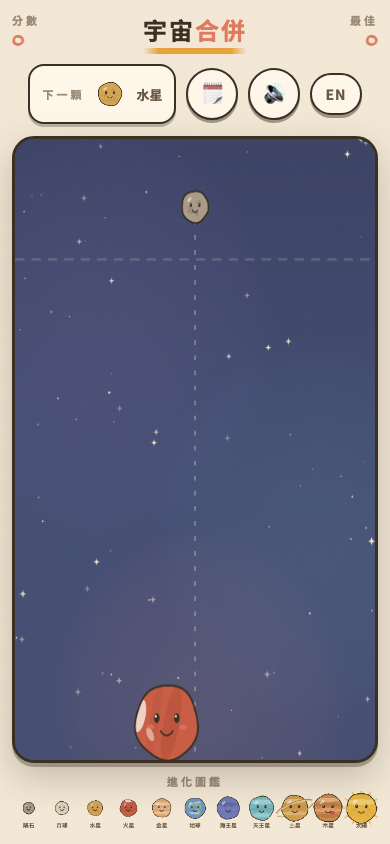
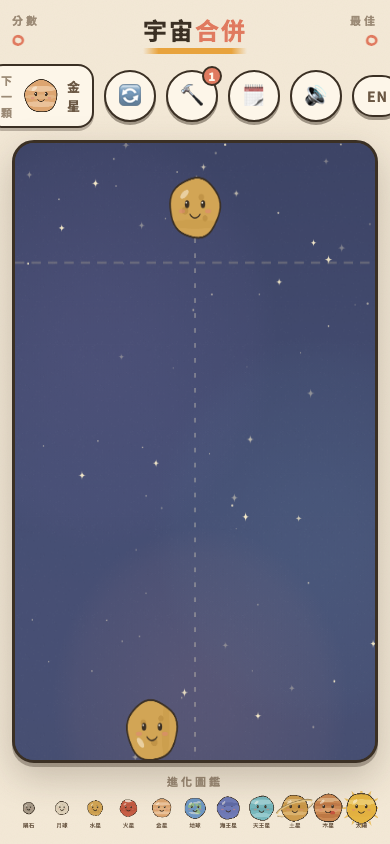
feat(launch-prep): og:image social preview (generated), service worker offline (stale-while-revalidate, prod-only), README feature update

Changed region(s): [[0.0, 0.0616, 1.0, 0.3389], [0.3077, 0.8009, 0.5231, 0.9242], [0.7077, 0.3081, 0.7385, 0.3389]]

diff --git a/public/sw.js b/public/sw.js
@@ -1,0 +1,32 @@
+/** 離線支援：同源 GET 走 stale-while-revalidate */
+const CACHE = 'cosmic-merge-v1'
+
+self.addEventListener('install', () => {
+  self.skipWaiting()
+})
+
+self.addEventListener('activate', event => {
+  event.waitUntil(
+    caches
+      .keys()
+      .then(keys => Promise.all(keys.filter(k => k !== CACHE).map(k => caches.delete(k))))
+      .then(() => self.clients.claim()),
+  )
+})
+
+self.addEventListener('fetch', event => {
+  const { request } = event
+  if (request.method !== 'GET' || !request.url.startsWith(self.location.origin)) return
+  event.respondWith(
+    caches.open(CACHE).then(async cache => {
+      const cached = await cache.match(request)
+      const network = fetch(request)
+        .then(res => {
+          if (res.ok) cache.put(request, res.clone())
+          return res
+        })
+        .catch(() => cached)
+      return cached || network
+    }),
+  )
+})

diff --git a/src/main.ts b/src/main.ts
@@ -396,6 +396,15 @@ applyI18n()
 window.addEventListener('pointerdown', () => startMusic(), { once: true })
 window.addEventListener('keydown', () => startMusic(), { once: true })
 
+/* ── PWA 離線（只在正式版註冊，避免 dev 快取干擾） ── */
+if (import.meta.env.PROD && 'serviceWorker' in navigator) {
+  window.addEventListener('load', () => {
+    navigator.serviceWorker.register('/sw.js').catch(() => {
+      /* SW 註冊失敗不影響遊戲 */
+    })
+  })
+}
+
 /* ── 主迴圈 ── */
 let last = performance.now()
 function frame(now: number) {

diff --git a/index.html b/index.html
@@ -10,6 +10,8 @@
     <meta property="og:title" content="Cosmic Merge 宇宙合併" />
     <meta property="og:description" content="Suika-style physics merge game with cute chibi planets. Merge from Meteor to the Sun!" />
     <meta property="og:type" content="website" />
+    <meta property="og:image" content="/og-image.png" />
+    <meta name="twitter:card" content="summary_large_image" />
     <link rel="manifest" href="/manifest.webmanifest" />
     <link rel="apple-touch-icon" href="/icon-512.png" />
     <meta name="apple-mobile-web-app-capable" content="yes" />

diff --git a/README.md b/README.md
@@ -16,8 +16,13 @@ Drop cute planets into a storybook night sky and merge your way from Meteor to t
 - 🗓 **每日挑戰**：日期種子決定星球序列，全世界今天玩同一局
 - 🏆 **本地排行榜**：前 10 名紀錄，結算畫面即時顯示本局名次
 - 📸 **成績分享卡**：一鍵生成手繪風成績圖，原生分享（手機）或下載（桌面）
+- 💫 **復活機制**：每局一次，看（模擬）廣告清掉上方星球續玩——獎勵式廣告位已就緒
+- 🔨 **道具**：小錘子敲掉任一顆（看廣告獲得）、換球（current↔next 免費互換）
+- 🎵 **生成式 lo-fi BGM**：WebAudio 和弦墊 + 五聲音階撥弦，零音檔
 - 🌐 **雙語**：zh-TW / English，自動偵測 + 即時切換
-- 📱 **觸控 / 滑鼠 / 鍵盤**全支援、合成觸覺震動、PWA 可加入主畫面
+- 📱 **觸控 / 滑鼠 / 鍵盤**全支援、合成觸覺震動、PWA 離線可玩（Service Worker）
+
+> 廣告皆走 `src/ads.ts` 抽象層，目前是 Mock 實作；上線接 AdMob / H5 Games Ads 只需替換一個 Provider。
 
 ## 操作 Controls
 
